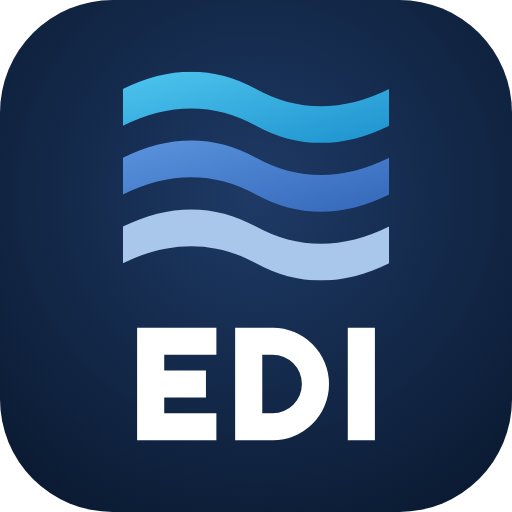
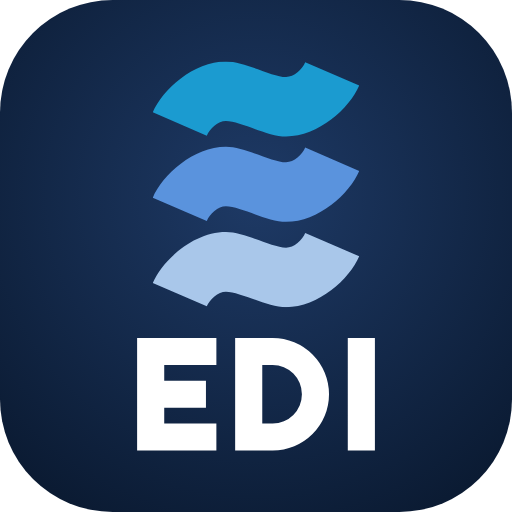
Add files via upload

diff --git a/sw.js b/sw.js
@@ -3,7 +3,7 @@
  * without a signal; EDI itself (script.google.com) is never cached and always loads live.
  * Change CACHE when the launcher's files change, so phones drop the old copy.
  */
-const CACHE = 'edi-launcher-v1';
+const CACHE = 'edi-launcher-v2'; // v2: icons with the Delos waves traced from the original logo
 const FILES = ['./', 'index.html', 'launcher.css', 'launcher.js', 'manifest.webmanifest',
   'edi-app-icon.png', 'edi-app-icon-512.png'];
 
